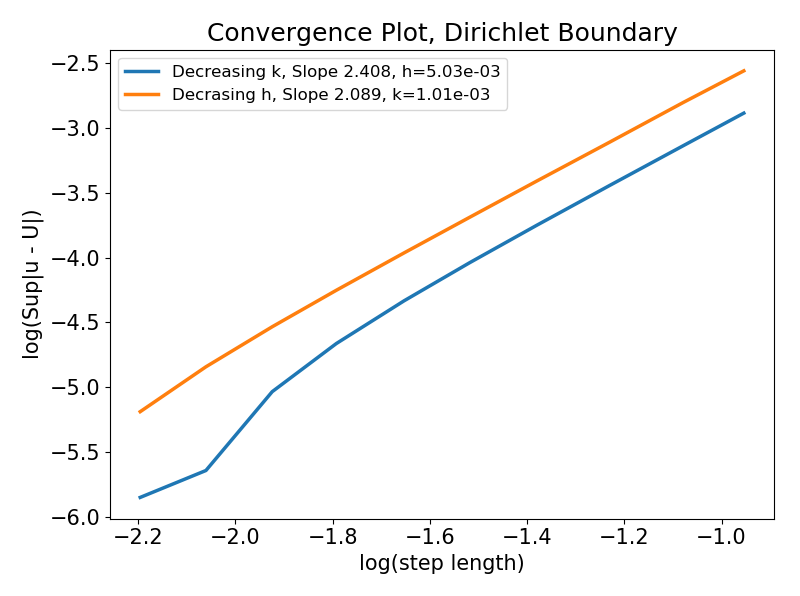
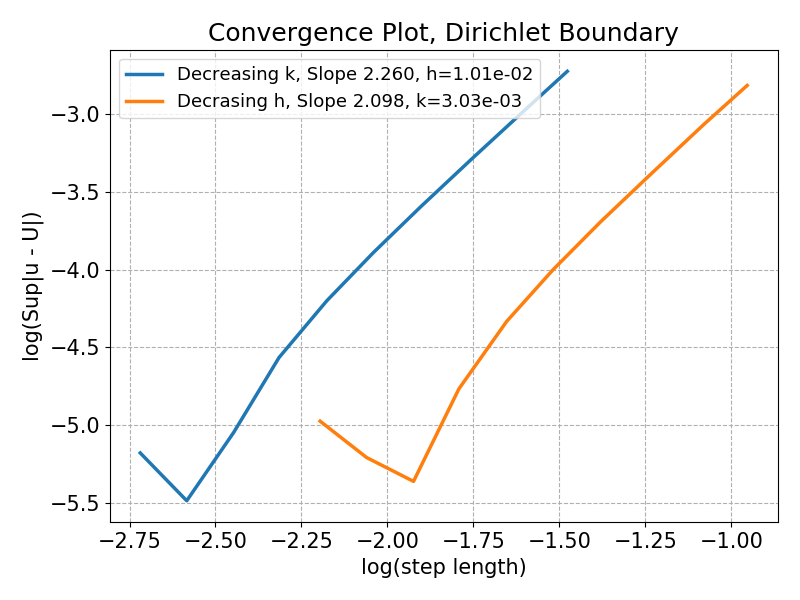
Fixed convergence plots.

diff --git a/testing_reaction_diffusion.py b/testing_reaction_diffusion.py
@@ -54,32 +54,36 @@ def one_dim_diffusion_reaction_convergence(u_exact: Callable, mu: float, f: Call
     print(f"Time sup-errors: {time_sup_errors}\n")
 
     Ns -= 1  # To get the precise value of 'h' when taking the reciprocal.
-    time_slope = linregress(np.log10(1 / Ns), np.log10(time_sup_errors))[0]
+    log_ks = np.log10(T / Ns)
+    time_slope = linregress(log_ks, np.log10(time_sup_errors))[0]
 
     Ms -= 1
-    space_slope = linregress(np.log10(1/Ms), np.log10(space_sup_errors))[0]
+    log_hs = np.log10((X[1]-X[0])/Ms)
+    space_slope = linregress(log_hs, np.log10(space_sup_errors))[0]
 
     fig, ax = plt.subplots(1, 1, figsize=(8, 6))
-    ax.set_title("Convergence Plot, Neumann Boundary")
-    ax.plot(np.log10(1/Ns), np.log10(time_sup_errors), linewidth=2.5, label=f"Decreasing k, Slope {time_slope:.3f}, h={(X[1]-X[0])/(M-1):.2e}")
-    ax.plot(np.log10(1/Ms), np.log10(space_sup_errors), linewidth=2.5, label=f"Decrasing h, Slope {space_slope:.3f}, k={T/(N-1):.2e}")
+    ax.set_title("Convergence Plot, Dirichlet Boundary")
+    ax.plot(log_ks, np.log10(time_sup_errors), linewidth=2.5, label=f"Decreasing k, Slope {time_slope:.3f}, h={(X[1]-X[0])/(M-1):.2e}")
+    ax.plot(log_hs, np.log10(space_sup_errors), linewidth=2.5, label=f"Decrasing h, Slope {space_slope:.3f}, k={T/(N-1):.2e}")
 
     ax.set_xlabel("log(step length)")
     ax.set_ylabel("log(Sup|u - U|)")
-    ax.legend(loc="best", fontsize=12)
+    ax.legend(loc="upper left", fontsize=13)
+    ax.grid(linestyle='--')
     plt.tight_layout()
     plt.show()
 
 
 def test_one_dim_dirichlet_convergence():
     print("Testing one-dimensional Dirichlet boundary convergence.\n")
+    T = 0.3
 
     def u_exact(x, t):
         return np.exp(-np.pi**2*t)*np.sin(np.pi*x) - t*x*(1.0 - x)
     mu = 1.0
     f = lambda x, t, u: -x * (1.0 - x) - 2*t
 
-    one_dim_diffusion_reaction_convergence(u_exact=u_exact, mu=mu, f=f)
+    one_dim_diffusion_reaction_convergence(u_exact=u_exact, mu=mu, f=f, T=T, N=100)
 
 
 def test_one_dim_dirichlet():
@@ -280,10 +284,10 @@ def test_2_two_dim_neumann():
 
 
 def test_batch():
-    # test_one_dim_dirichlet_convergence()
+    test_one_dim_dirichlet_convergence()
     # test_one_dim_dirichlet()
 
-    test_one_dim_neumann_convergence()
+    # test_one_dim_neumann_convergence()
     # test_one_dim_neumann()
 
     # test_1_two_dim_neumann()

diff --git a/task2.py b/task2.py
@@ -75,6 +75,7 @@ def test_two_dim_SIR():
     model = SIR_Model(S_init, I_init, mu_S_I=(0.05, 0.5), beta=2.0, gamma=0.3, domain=(X, Y), N=N, T=T)
     animate_model = SIR_Animation(model)
     animate_model.play_animation()
+
     # model.execute()
     #
     # S_final = model.S_solver.u_n
